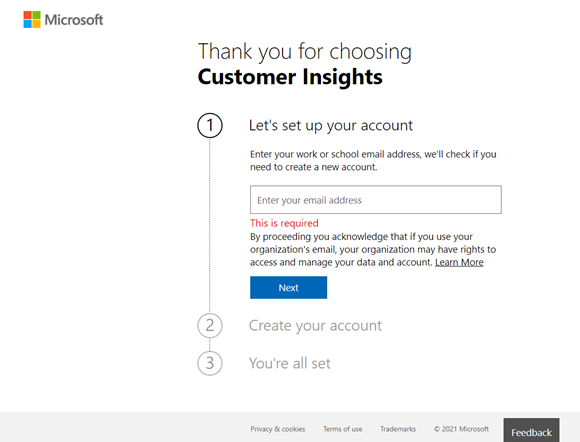
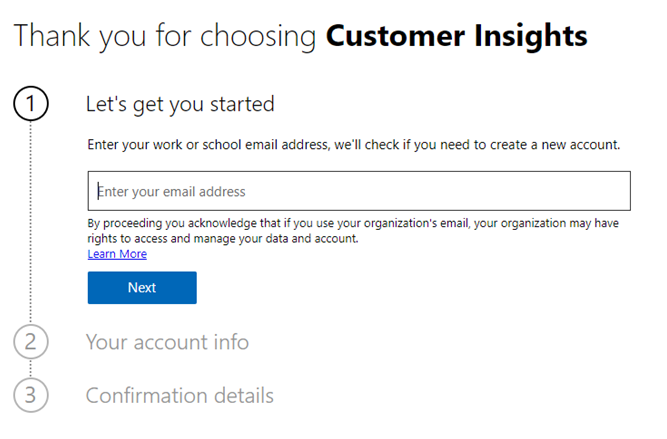
incorporate trial feedback

diff --git a/ci-docs/audience-insights/get-started-trial.md b/ci-docs/audience-insights/get-started-trial.md
@@ -1,7 +1,7 @@
 ---
 title: "Create and configure a trial of Customer Insights"
 description: "Steps to get a trial subscription for Dynamics 365 Customer Insights and configure it."
-ms.date: 06/29/2021
+ms.date: 07/08/2021
 ms.reviewer: mhart
 ms.service: customer-insights
 ms.subservice: audience-insights
@@ -11,9 +11,9 @@ ms.author: midevane
 manager: shellyha
 ---
 
-# Set up a trial environment
+# Set up a trial environment 
 
-A trial of Dynamics 365 Customer Insights lets you review key capability and learn more about the various features. A trial subscription expires after 30 days and is automatically deleted afterwards. Trial organizations are created by individual users who become administrator of their trial environment. They can invite more users to their trial and configure the various features.
+A trial of Dynamics 365 Customer Insights lets you review key capability and learn more about the various features. A trial subscription is deleted after expiring. Trial environments are created by individual users who become administrator of their trial environment. They can invite more users to their trial and configure the various features.
 
 ## Create a trial environment
 
@@ -21,13 +21,17 @@ You can sign up for a trial on the [trial sign up page](https://dynamics.microso
 
 1. Choose the **Sign up for a free trial** option and select **Sign up now**.
 
-1. Provide your work or school email address, tell us a more about yourself and select **Next**.
+1. Provide your work or school email address, tell us a more about yourself and select **Get started**.
 
    :::image type="content" source="media/trial-signup-dialog.png" alt-text="Dialog to sign up for a trial instance":::
 
+1. Review the terms and conditions and select **Continue** to confirm.
+
 1. Provide a **Name** for your new environment. 
 
-1. Select the trial type.
+1. Set the environment **Type** as **Trial**.
+
+1. In the **Select an industry demo** field, you can optionally choose an industry-specific data set. You can also [change to an industry demo](#use-industry-specific-demo-data-sets-in-audience-insights) later and start with the default data set.
 
 1. Choose the **Region** for your environment.
 
@@ -35,11 +39,13 @@ You can sign up for a trial on the [trial sign up page](https://dynamics.microso
 
 1. Select **Create**. 
 
-After setting up the trial, you'll see the **Demo** environment that lets you explore the app with fictitious data.
+It takes a moment to complete the environment setup. After setting up the trial, you're redirected to your new environment. You can now explore the app with fictitious data.
+
+:::image type="content" source="media/trial-environment.png" alt-text="Screenshot of a newly created trial environment.":::
 
 ## Use industry-specific demo data sets in audience insights
 
-Connecting real data sources is one of the critical steps in using the power of Customer Insights. To try features without interfering with your own data, you can use industry-specific demo data. There are a couple of demo data sets available for the following industries: 
+Connecting real data sources is one of the critical steps in using the power of Customer Insights. To try features without interfering with your own data, you can optionally use industry-specific demo data. There are a couple of demo data sets available for the following industries: 
 
 -	Automotive
 -	Banking
@@ -80,14 +86,15 @@ You can now use the ingested data to tailor Customer Insights to your scenario. 
 
 ## Limitations in trials
 
+- Trials are active for 30 days by default. However, you can extend them after day 23 when you sign in to your trial.
 - You can't use your own Azure Data Lake storage account during a trial.
-- You can store a limited amount of data in Microsoft Dataverse. 
+<!-- You can store a limited amount of data in Microsoft Dataverse. -->
 
 ## Copy data from a trial to a paid subscription
 
 Generally, we recommend starting fresh with your own data when upgrading to the paid version of Customer Insights. 
 
-However, if you're the administrator of the Customer Insights trial and the global admin of your Microsoft 365 tenant, or the Dynamics 365 administrator in your organization there's a way to migrate the settings from a trial environment to a paid environment. 
+Optionally, you can copy your data from a trial environment if you purchase Customer Insights. You must be the administrator of the Customer Insights trial and the global admin of your Microsoft 365 tenant, or the Dynamics 365 administrator in your organization to migrate the settings from a trial environment to a paid environment. 
 
-After signing in to your paid instance of Customer Insights for the first time, you're asked to create a new environment. In this process, you can choose to copy the configuration from an existing environment and migrate most of the settings. For more information, see [Copy the environment configuration](manage-environments.md#copy-the-environment-configuration).
+After signing in to your paid instance of Customer Insights for the first time, you're asked to create a new environment. In this process, you can choose to copy the configuration from an existing environment and migrate most of the settings. If you have the permissions mentioned above, the trial environment will show in this list. For more information, see [Copy the environment configuration](manage-environments.md#copy-the-environment-configuration).
 
